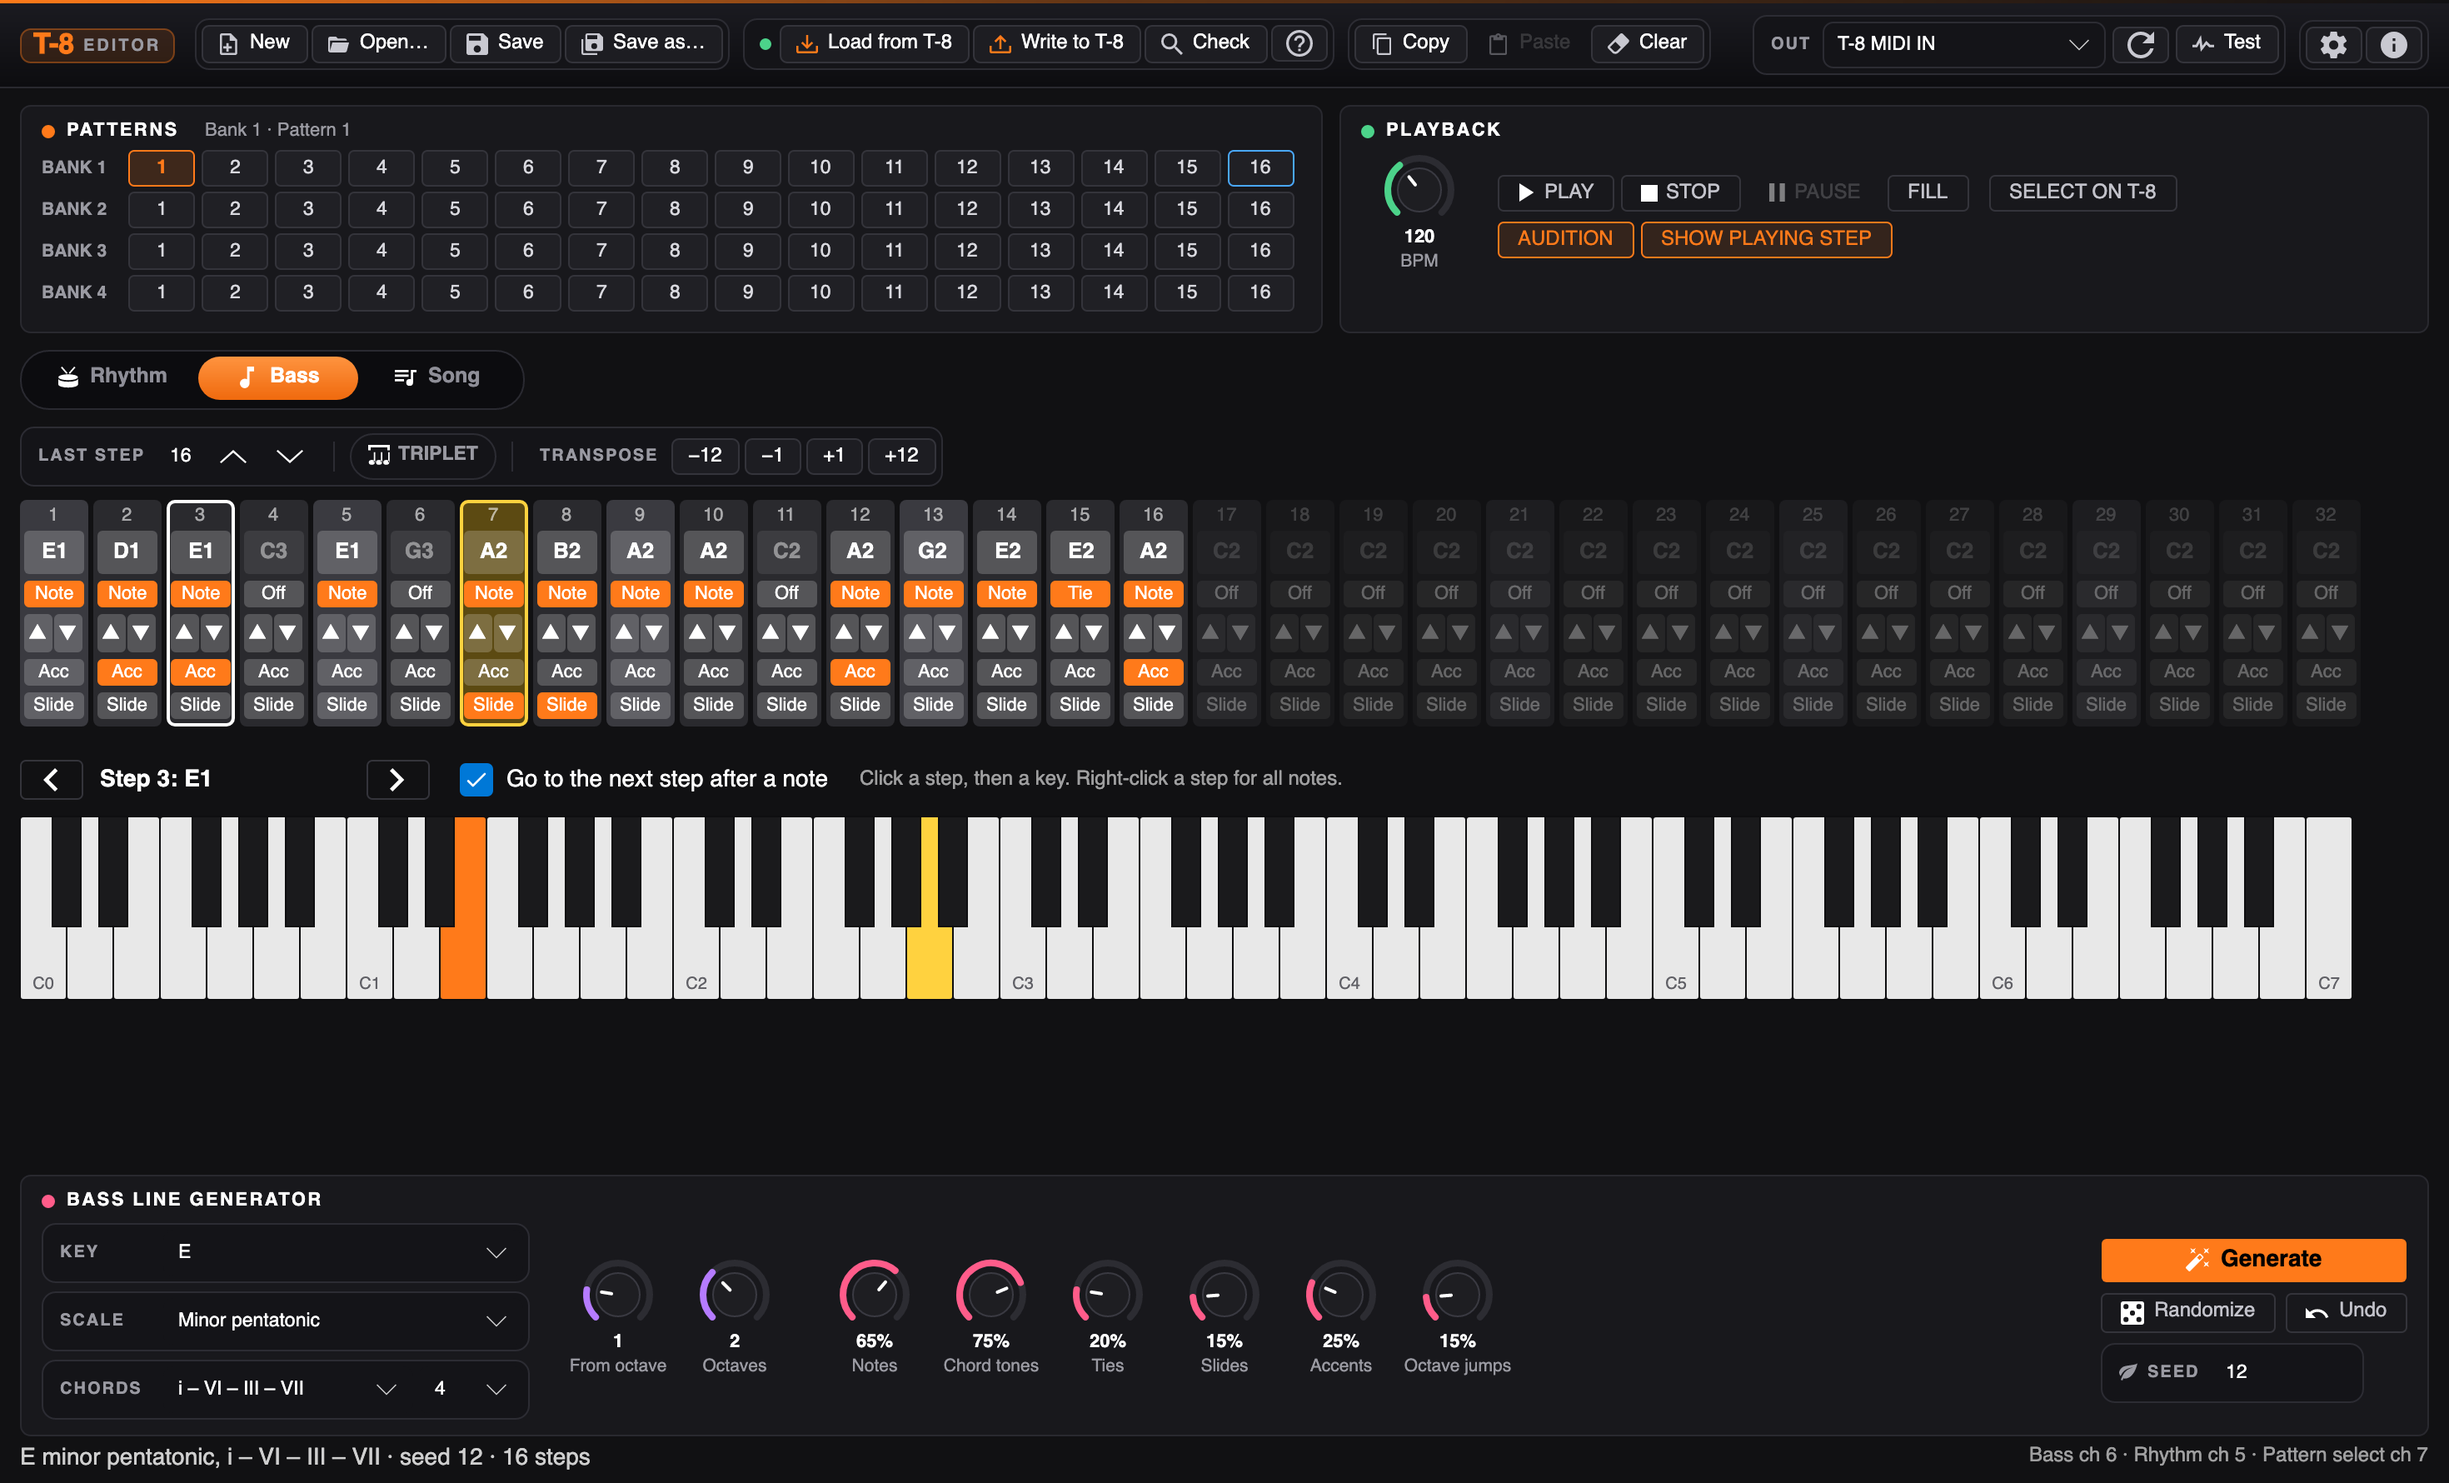
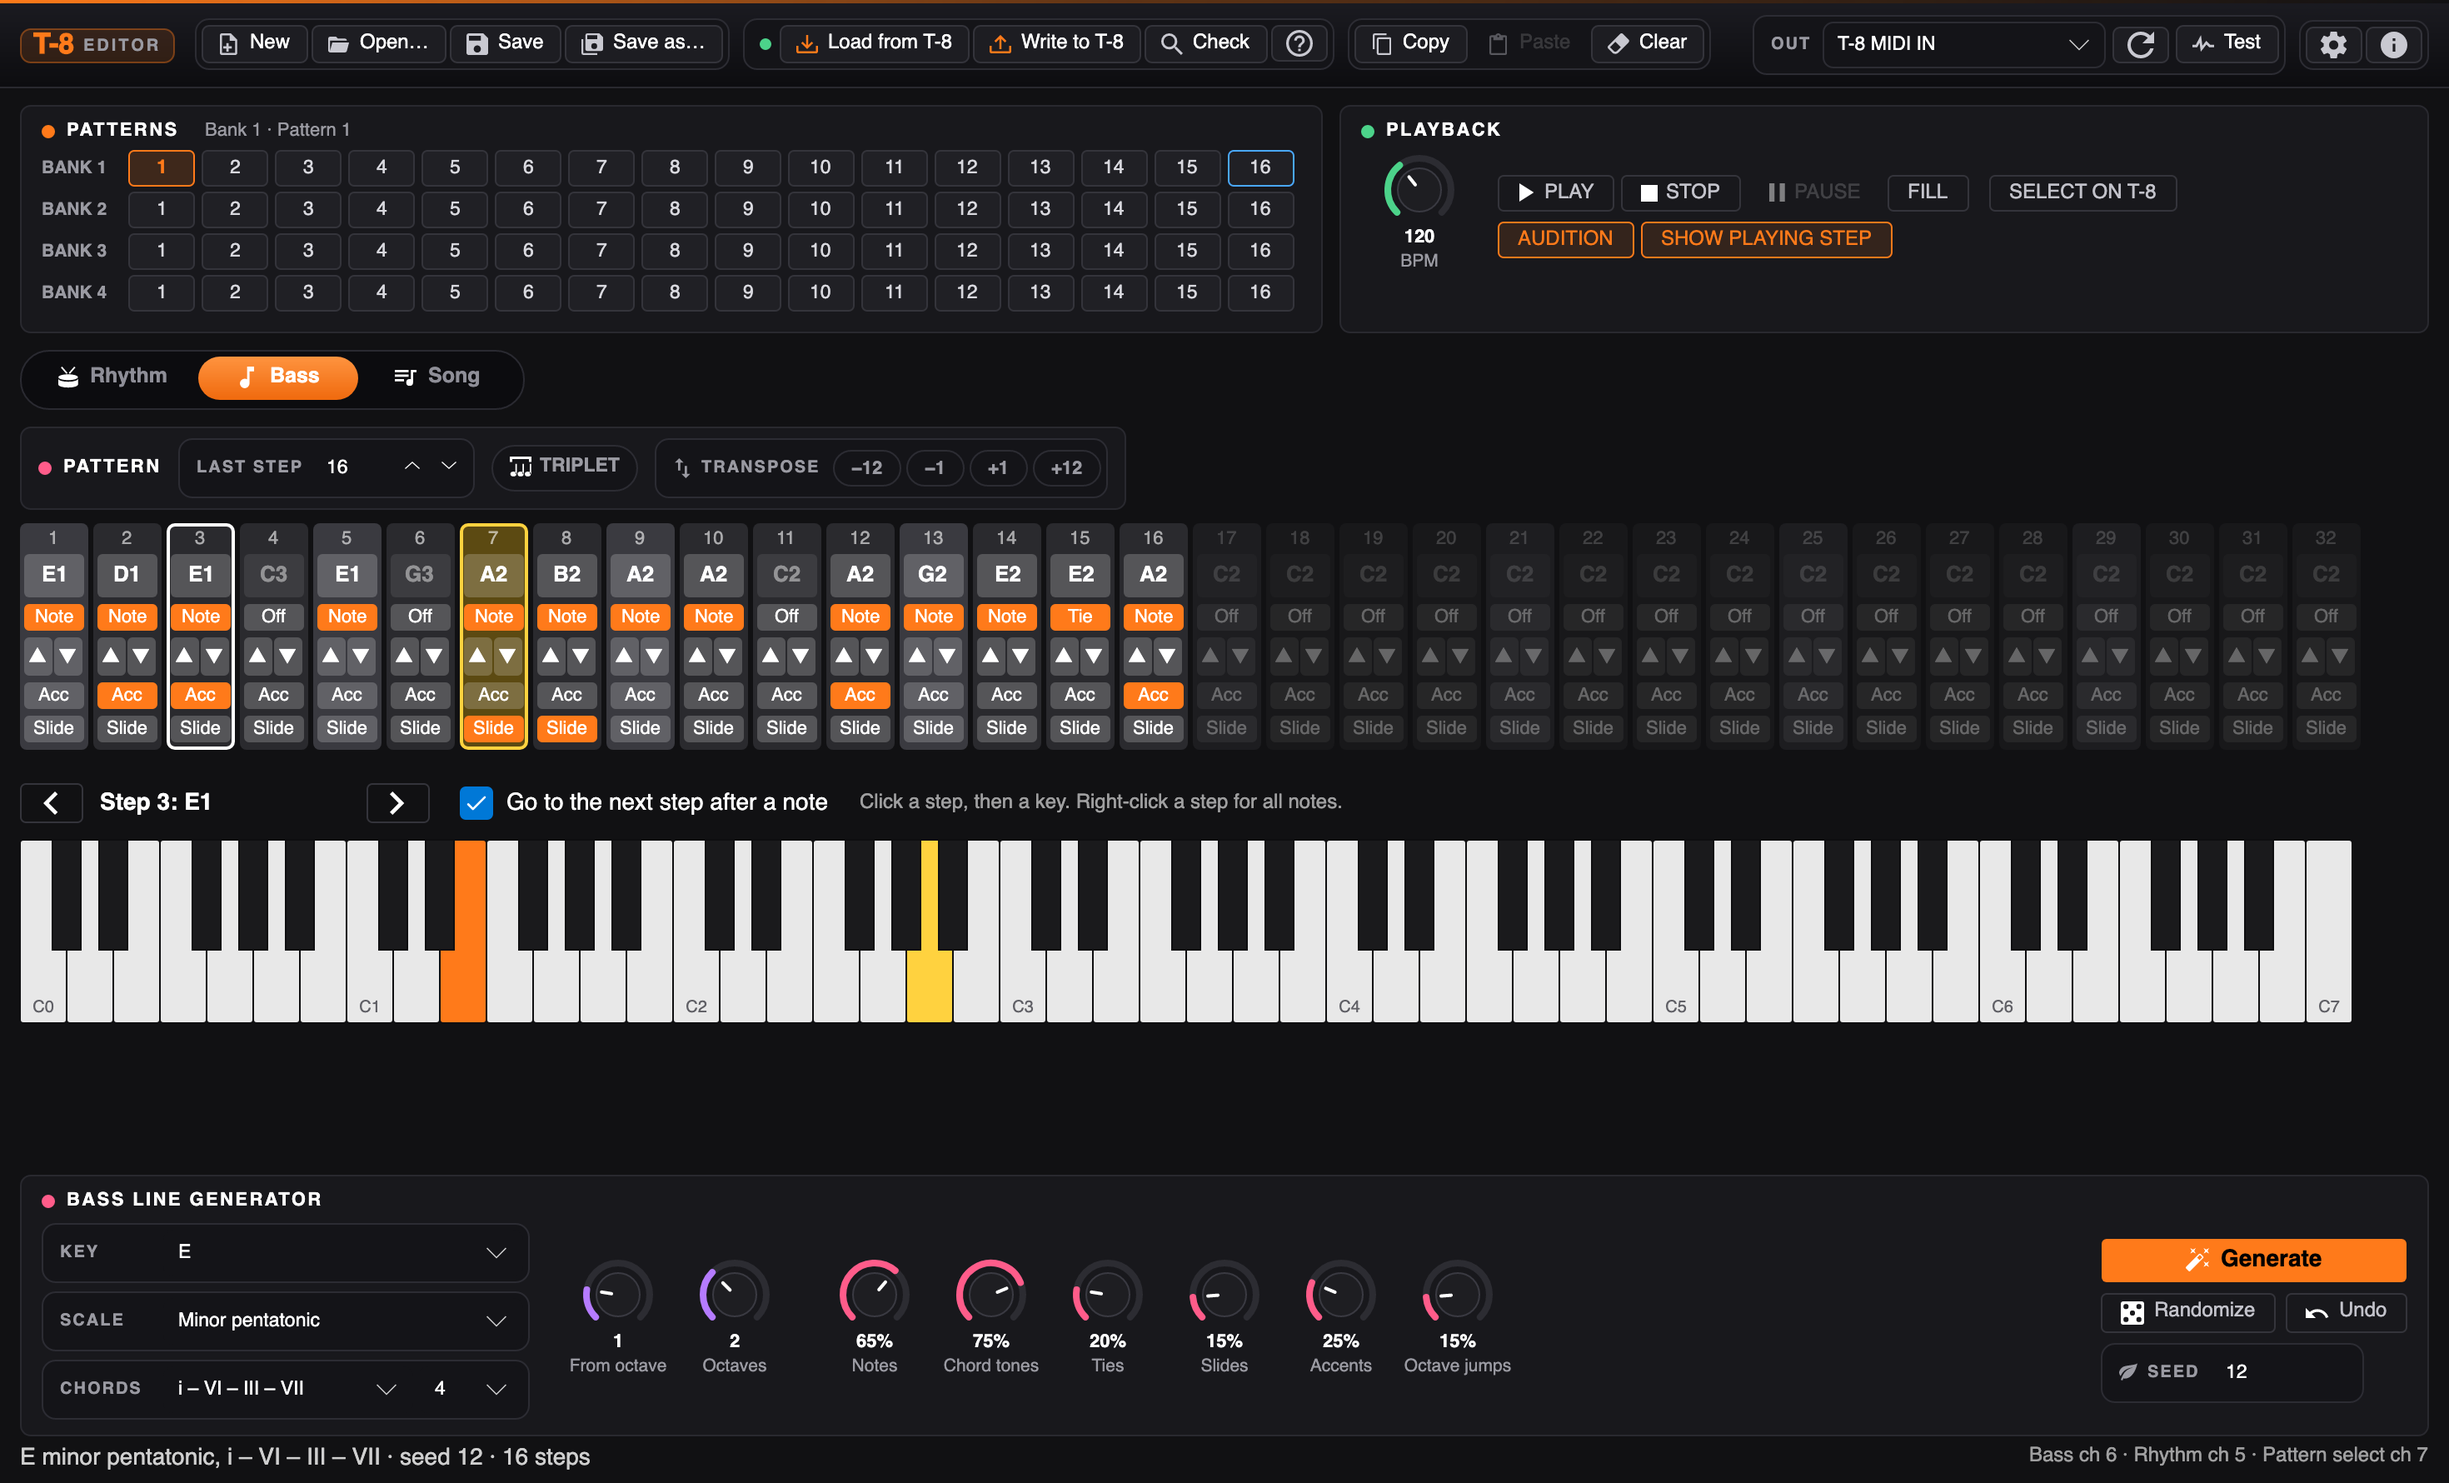
Bass tab: a PATTERN panel for Last step, Triplet and Transpose
A card titled PATTERN holds an outlined LAST STEP box (28 px, 11.5
font, compact number field with small up/down buttons), a Triplet chip
with an icon that lights orange when on, and an outlined TRANSPOSE box
with an up/down icon and small chip buttons. The Bass tab still fits a
MacBook Air window. The test checks the panel, outlined boxes, labels,
and that Triplet and Transpose work. README and screenshots updated.

diff --git a/tests/T8.Editor.Tests/MainWindowTests.cs b/tests/T8.Editor.Tests/MainWindowTests.cs
@@ -221,16 +221,29 @@ public class MainWindowTests
         Assert.IsType<StackPanel>(generator.FindControl<Button>("GenerateButton")!.Content);
         Assert.IsType<StackPanel>(generator.FindControl<Button>("UndoGenerateButton")!.Content);
 
-        // Last step, Triplet and Transpose share one outlined panel above the steps.
+        // Last step, Triplet and Transpose sit in the PATTERN panel above the steps, in outlined boxes.
         var editor = window.GetVisualDescendants().OfType<BassEditorView>().Single();
+        var panel = editor.FindControl<Border>("BassPatternPanel")!;
         var length = editor.FindControl<NumericUpDown>("BassLength")!;
+        var triplet = editor.FindControl<ToggleButton>("TripletCheck")!;
+        var up12 = editor.FindControl<Button>("TransposeUp12Button")!;
+        Assert.All(new Control[] { length, triplet, up12 }, c => Assert.Contains(panel, c.GetVisualAncestors()));
         Assert.Contains("port", length.Classes);
         Assert.Contains("fieldBox", length.FindAncestorOfType<Border>()!.Classes);
-        var triplet = editor.FindControl<ToggleButton>("TripletCheck")!;
+        Assert.Contains("fieldBox", editor.FindControl<Border>("TransposeBox")!.Classes);
+        var labels = panel.GetVisualDescendants().OfType<TextBlock>().Select(t => t.Text).ToList();
+        Assert.Contains("PATTERN", labels);
+        Assert.Contains("LAST STEP", labels);
+        Assert.Contains("TRANSPOSE", labels);
+        Assert.Contains("TRIPLET", labels);
+
         Assert.Contains("chip", triplet.Classes);
         triplet.IsChecked = !vm.Bass.Triplet;
         Assert.Equal(triplet.IsChecked, vm.Bass.Triplet);
-        Assert.NotNull(editor.FindControl<Button>("TransposeUp12Button"));
+
+        var before = vm.Bass.Steps[0].NoteName;
+        up12.Command!.Execute(up12.CommandParameter);
+        Assert.NotEqual(before, vm.Bass.Steps[0].NoteName);
         window.Close();
         vm.Dispose();
     }

diff --git a/README.md b/README.md
@@ -297,7 +297,8 @@ Each column is one step: its note, its state, semitone up/down, and Accent and S
   on the T-8, and the selection moves to the next step, so you can play a line in key by key. Untick
   **Go to the next step after a note** to stay on the same step. The arrows move the selection.
 - The state button cycles **Off → Note → Tie**. A tie holds the previous note through the step.
-- **Last step**, **Triplet** and **Transpose** (−12, −1, +1, +12 for the whole line) are above the steps.
+- The **Pattern** panel above the steps holds **Last step** (1–32), **Triplet** (lit orange when on) and
+  **Transpose** (−12, −1, +1, +12 semitones for the whole line).
 - **Right-click a step** for every note in the T-8's range (C0–C7) by octave, plus Off/Note/Tie, Accent and Slide:
 
   ![The step menu](docs/screenshots/bass-step-menu.png)
